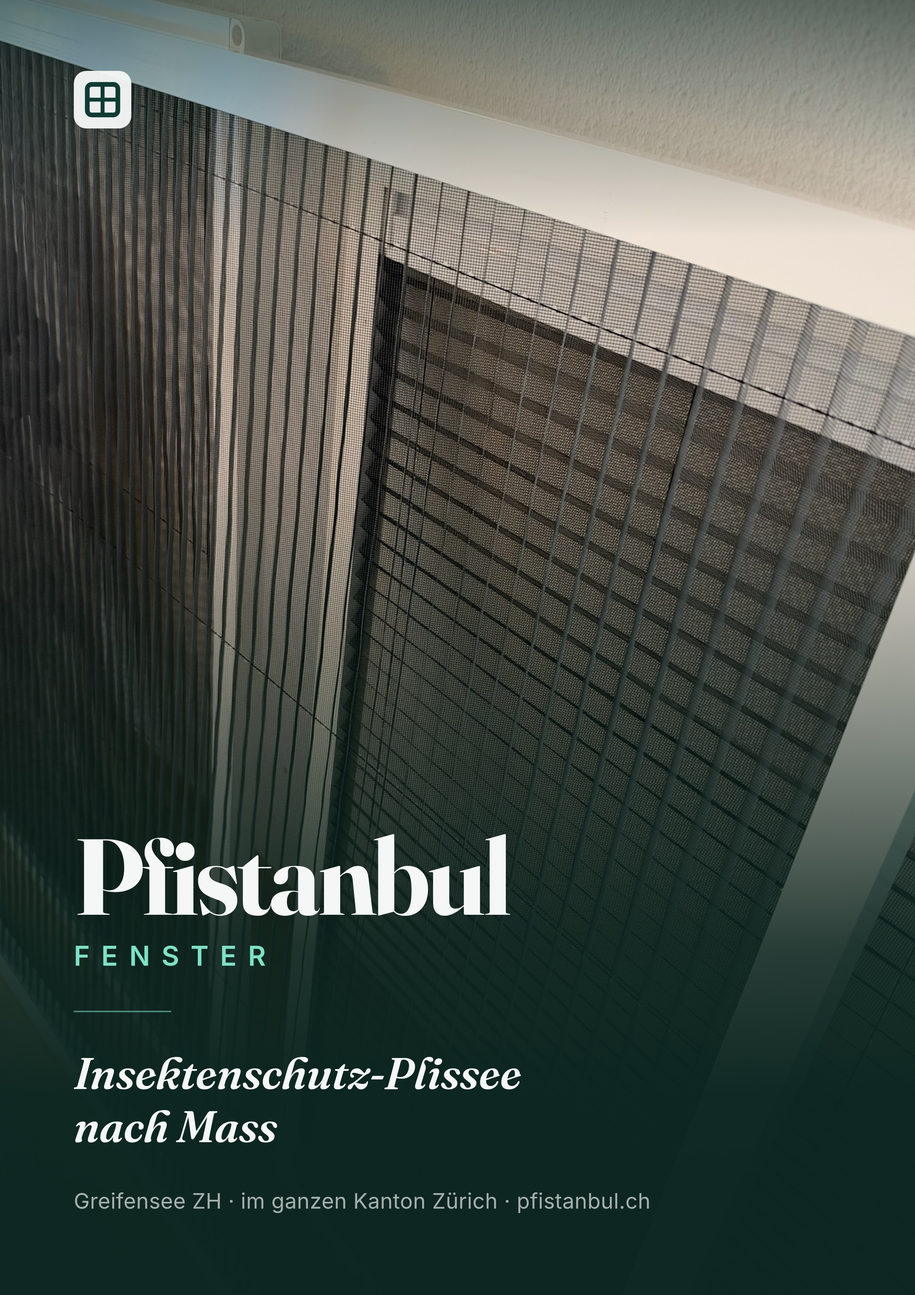
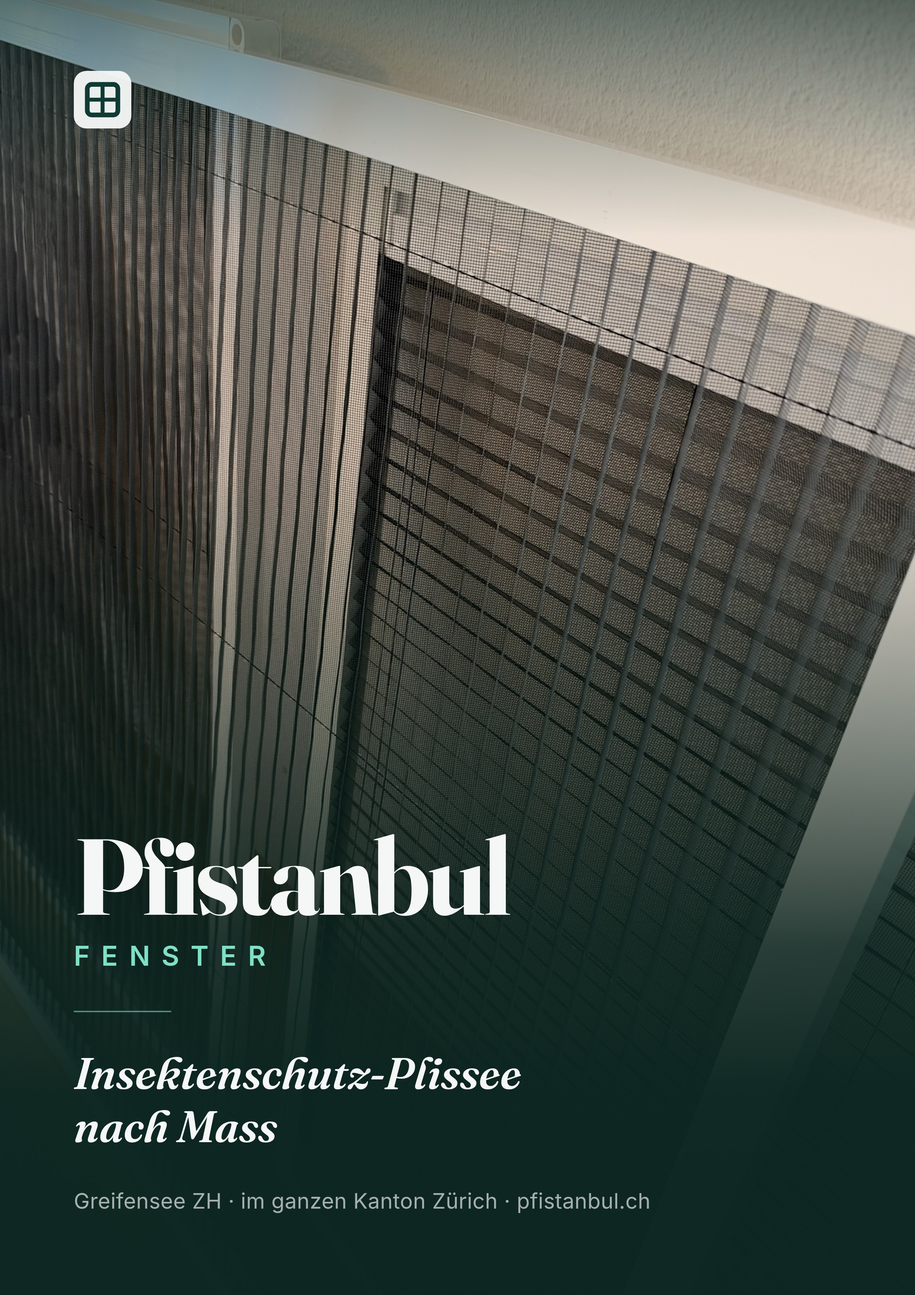
Titelblatt auch im Hochformat, fuer das erste Bild im Reel
Im fertigen Film liegt das A4-Blatt in einem 9:16-Rahmen und hat knapp
drei Sekunden lang schwarze Balken oben und unten - Papier ist 1:1,41,
das Telefon 1:1,78. Dieselbe Gestaltung gibt es jetzt in 1080 x 1920.
Der Schriftzug sitzt dort hoeher: Unten legt Instagram Name,
Bildunterschrift und Knoepfe ueber das Bild.

Dabei eine Falle im Ausschnitt gefunden: `groesse: '124%'` rechnet auf
die BREITE der Seite. Im schmaleren, hoeheren Rahmen deckte das Bild die
Seite nicht mehr, und oben stand ein gruener Streifen. Die Angabe gilt
jetzt der Hoehe.

Claude-Session: https://claude.ai/code/session_01UiUFn7ykifp8b7M2ApYf3F

diff --git a/medien/titelblatt/README.md b/medien/titelblatt/README.md
@@ -1,14 +1,24 @@
 # Titelblatt
 
-Das Titelblatt von Pfistanbul Fenster als Bilddatei: **A4 hoch, 2480 × 3508
-Punkte, 300 dpi, JPEG**. So gross, dass es gedruckt werden kann, und klein
-genug, um es zu verschicken.
+Das Titelblatt von Pfistanbul Fenster als Bilddatei, in zwei Formaten:
+
+| Format | Grösse | Wofür |
+|---|---|---|
+| A4 hoch | 2480 × 3508, 300 dpi | Druck, Offerte, Beilage |
+| 9 : 16 | 1080 × 1920 | Erstes Bild in einem Reel, Story |
 
 ```bash
 cd medien/titelblatt
-node titelblatt.mjs            # alle Motive
-node titelblatt.mjs tuere      # nur eines
+node titelblatt.mjs                  # alle Motive, beide Formate
+node titelblatt.mjs tuere            # ein Motiv, beide Formate
+node titelblatt.mjs tuere --a4       # nur A4
 ```
+
+**Das 9 : 16 ist nicht derselbe Schnitt.** Wer das A4-Blatt in ein Reel legt,
+bekommt schwarze Balken oben und unten – das Papier ist 1 : 1,41, das Telefon
+1 : 1,78. Und unten legt Instagram Name, Bildunterschrift und Knöpfe über das
+Bild; deshalb sitzt der Schriftzug im Hochformat deutlich höher als auf dem
+Papier.
 
 Gebraucht wird nur Chromium – kein ffmpeg, kein ImageMagick, kein `npm
 install`.
